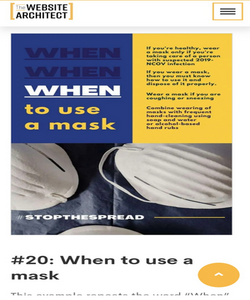
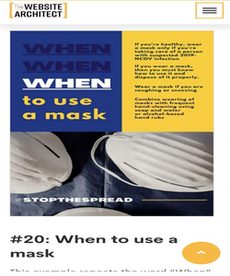
changed images side

diff --git a/lesson2/styles/design-principles.css b/lesson2/styles/design-principles.css
@@ -73,7 +73,6 @@ main section h2 {
 }  
 /* images section */
 .repition-img{ 
-	height: 400px;
 	box-shadow: 0 0 30px #333; 
 }   
 .repition-img:hover{ 
@@ -83,7 +82,6 @@ main section h2 {
 
 
 .aligment-img{ 
-	height: 400px;
 	box-shadow: 0 0 30px #333; 
 } 
 .aligment-img:hover{ 
@@ -91,8 +89,7 @@ main section h2 {
     transform: scale(1.1);
 }
 
-.contrast-img{    
-	height: 400px;
+.contrast-img{ 
 	box-shadow: 0 0 30px #333;
 	
 } 
